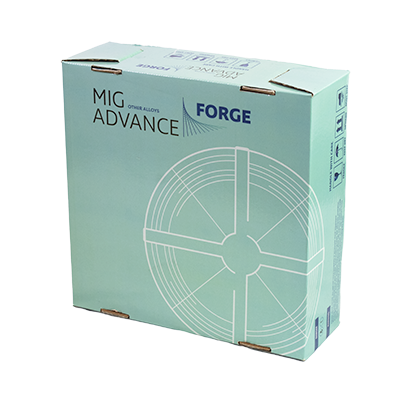
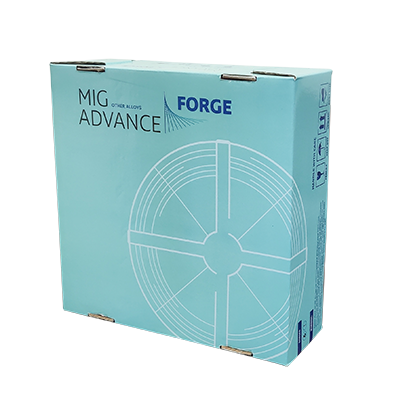
- image replaced - background image 2 alignment

diff --git a/src/pages/Poducts/index.js b/src/pages/Poducts/index.js
@@ -1,9 +1,4 @@
-import { NavLink } from "react-router-dom";
-import HeaderContainer from "../../components/Containers/HeaderContaner";
-import { RoutesLink } from "../../Utility/RoutesLink";
-import Navbar from "../Home/Navbar";
 import "../Poducts/product.css";
-import ProductNavigator from "./Components/ProductNavigator";
 import Product1Banner from "../../assets/images/Banner/product1Banner.svg";
 import mechHand from "../../assets/images/Banner/MechHand.png";
 import assetRelative from "../../assets/images/Banner/assetRelative.svg";
@@ -25,31 +20,23 @@ import radialImage from "../../assets/images/Banner/radialBanner.svg";
 import ProductCard from "./Components/ProductCard";
 import productCore1 from "../../assets/images/product/productCore1.png";
 import productCore2 from "../../assets/images/product/productCore2.png";
-import FormInput from "../../components/Forms/FormInput";
-import FormSelect from "../../components/Forms/FormSelect";
-import FormContainer from "../../components/Containers/FormContainer";
-import Button from "../../components/Button";
-import FormTextArea from "../../components/Forms/FormTextArea";
 import weildingImage from "../../assets/images/Banner/WeildingImage.png";
-import Footer from "../../components/Footer";
-import HorizontalLine from "../../components/HorizontalLine";
 import ProductGroup from "../../assets/images/Banner/ProductGroup.svg"
 import MainContainer from "../../components/Containers/MainContainer";
 import { useState } from "react";
-import { Accordion } from "flowbite-react";
 import { useForm } from "react-hook-form";
-import { validateName } from "../../Utility/Validations";
 import tigImage from "../../assets/images/product/tigImage.png";
 import tigPrimaryImage from "../../assets/images/product/tigPrimaryImage.png";
-import AnimatedPage from "../../Utility/AnimatedPage";
 import EnquiryForm from "../../components/Forms/EnquiryForm";
 
+import MIGPacked from "../../assets/images/product/AdvanceCraft/CRAFT-MIG.png"
+import TIGPacked from "../../assets/images/product/AdvanceCraft/CRAFT-TIG.png"
+import SAWPacked from "../../assets/images/product/AdvanceCraft/CRAFT-SAW.png" 
 export default function Product1() {
   const productTitle1 = "Its not just supplying, its also customizing";
   const productTitle2 = "Weld with Confidence, Achieve Superior Results.";
   const productTitle3 = "Different chemistries that make for a stronger bond.";
   const product1des2 = "The commonly manufactured grades are AWS";
-  const product1des3 = "with low and normal silicon contents.";
   const product1Des = "Advance Craft stainless steel wires are engineering materials that are capable of meeting a broad range of design criteria. They exhibit excellent:";
   const productDescription = "They are selected for a broad range of consumer,commercial and industrial applications. They are used for demanding requirements of chemical processing to the delicate handling of food and pharmaceuticals. They are preferred over many other materials because of their performance in even the most aggressive environments, and they are fabricated by methods common to most manufacturers. Most stainless steels are considered to have good weldability and may be welded by several welding processes including the arc welding processes, resistance welding , electron and laser beam welding, friction welding and brazing. For any of these processes, joint surfaces and any filler metal must be clean."
 
@@ -74,7 +61,7 @@ export default function Product1() {
     productTitle: "MIG",
     productDes: "The MIG wires are supplied in bright as well as in matte finish and the wire is specially cleaned to avoid weld contamination. Stainless steel MIG wires can be supplied in plastic spool. The wires have suitable cast / helix to ensure perfect “Pay-Off”.",
     sizeHeading: ["Size(mm)", "Size(inch)", "Fraction"],
-    primaryImage: product1PrimaryImage,
+    primaryImage: MIGPacked,
     size: [
       { mm: "0.80", inch: '0.030"', fraction: "---" },
       { mm: "0.90", inch: '0.035"', fraction: "---" },
@@ -107,7 +94,7 @@ export default function Product1() {
     productTitle: "TIG",
     productDes: "We manufacture high quality stainless steel TIG wires in 36” & 1,000 mm cutlengths, with embossing on both sides above 1.0 mm wires as per customer’s requirements.TIG wires are supplied in bright and clean finish to avoid all possible contamination.No oil is used in processing of TIG wires.",
     sizeHeading: ["Size(mm)", "Size(inch)", "Fraction"],
-    primaryImage: tigPrimaryImage,
+    primaryImage: TIGPacked,
     size: [
       { mm: "1.60", inch: '0.062"', fraction: '1/16"' },
       { mm: "2.00", inch: '0.078"', fraction: "---" },
@@ -140,7 +127,7 @@ export default function Product1() {
     productTitle: "SAW",
     productDes: "We manufacture clean & layer wound wire for submerged arc welding from 1.60 mm(0.062”) to 5.00 mm(0.187”) in various grades in bright as well as in matte finish.The wires tensile strength, helix and cast diameter is engineered to precise tolerance to ensure perfect “Pay- Off”.",
     sizeHeading: ["Size(mm)", "Size(inch)", "Fraction"],
-    primaryImage: productSawPrimary,
+    primaryImage: SAWPacked,
     size: [
       { mm: "1.60", inch: '0.062"', fraction: '1/16"' },
       { mm: "2.00", inch: '0.078"', fraction: "---" },

diff --git a/src/pages/Home/Component/BannerComponents.js/BannerContainer.js b/src/pages/Home/Component/BannerComponents.js/BannerContainer.js
@@ -9,9 +9,10 @@ const BannerContainer = ({
   bgImage2,
 }) => {
   const bgPosition = position2 ? `${position}, ${position2}` : position
+  const bgSize = position2 ? `bg-[length:171px_150px,auto_70%] lg:bg-[length:171px_300px,auto_70%]` : `bg-[length:171px_150px] lg:bg-[length:171px_300px]`
   return (
     <div
-      className={` flex justify-center align-center  ${containerStyle} bg-[length:171px_150px,] lg:bg-[length:171px_300px,]`}
+      className={` flex justify-center align-center  ${containerStyle} ${bgSize}`}
       style={{
         backgroundImage: `url(${bgImage}) , url(${bgImage2})`,
         backgroundPosition: bgPosition,
